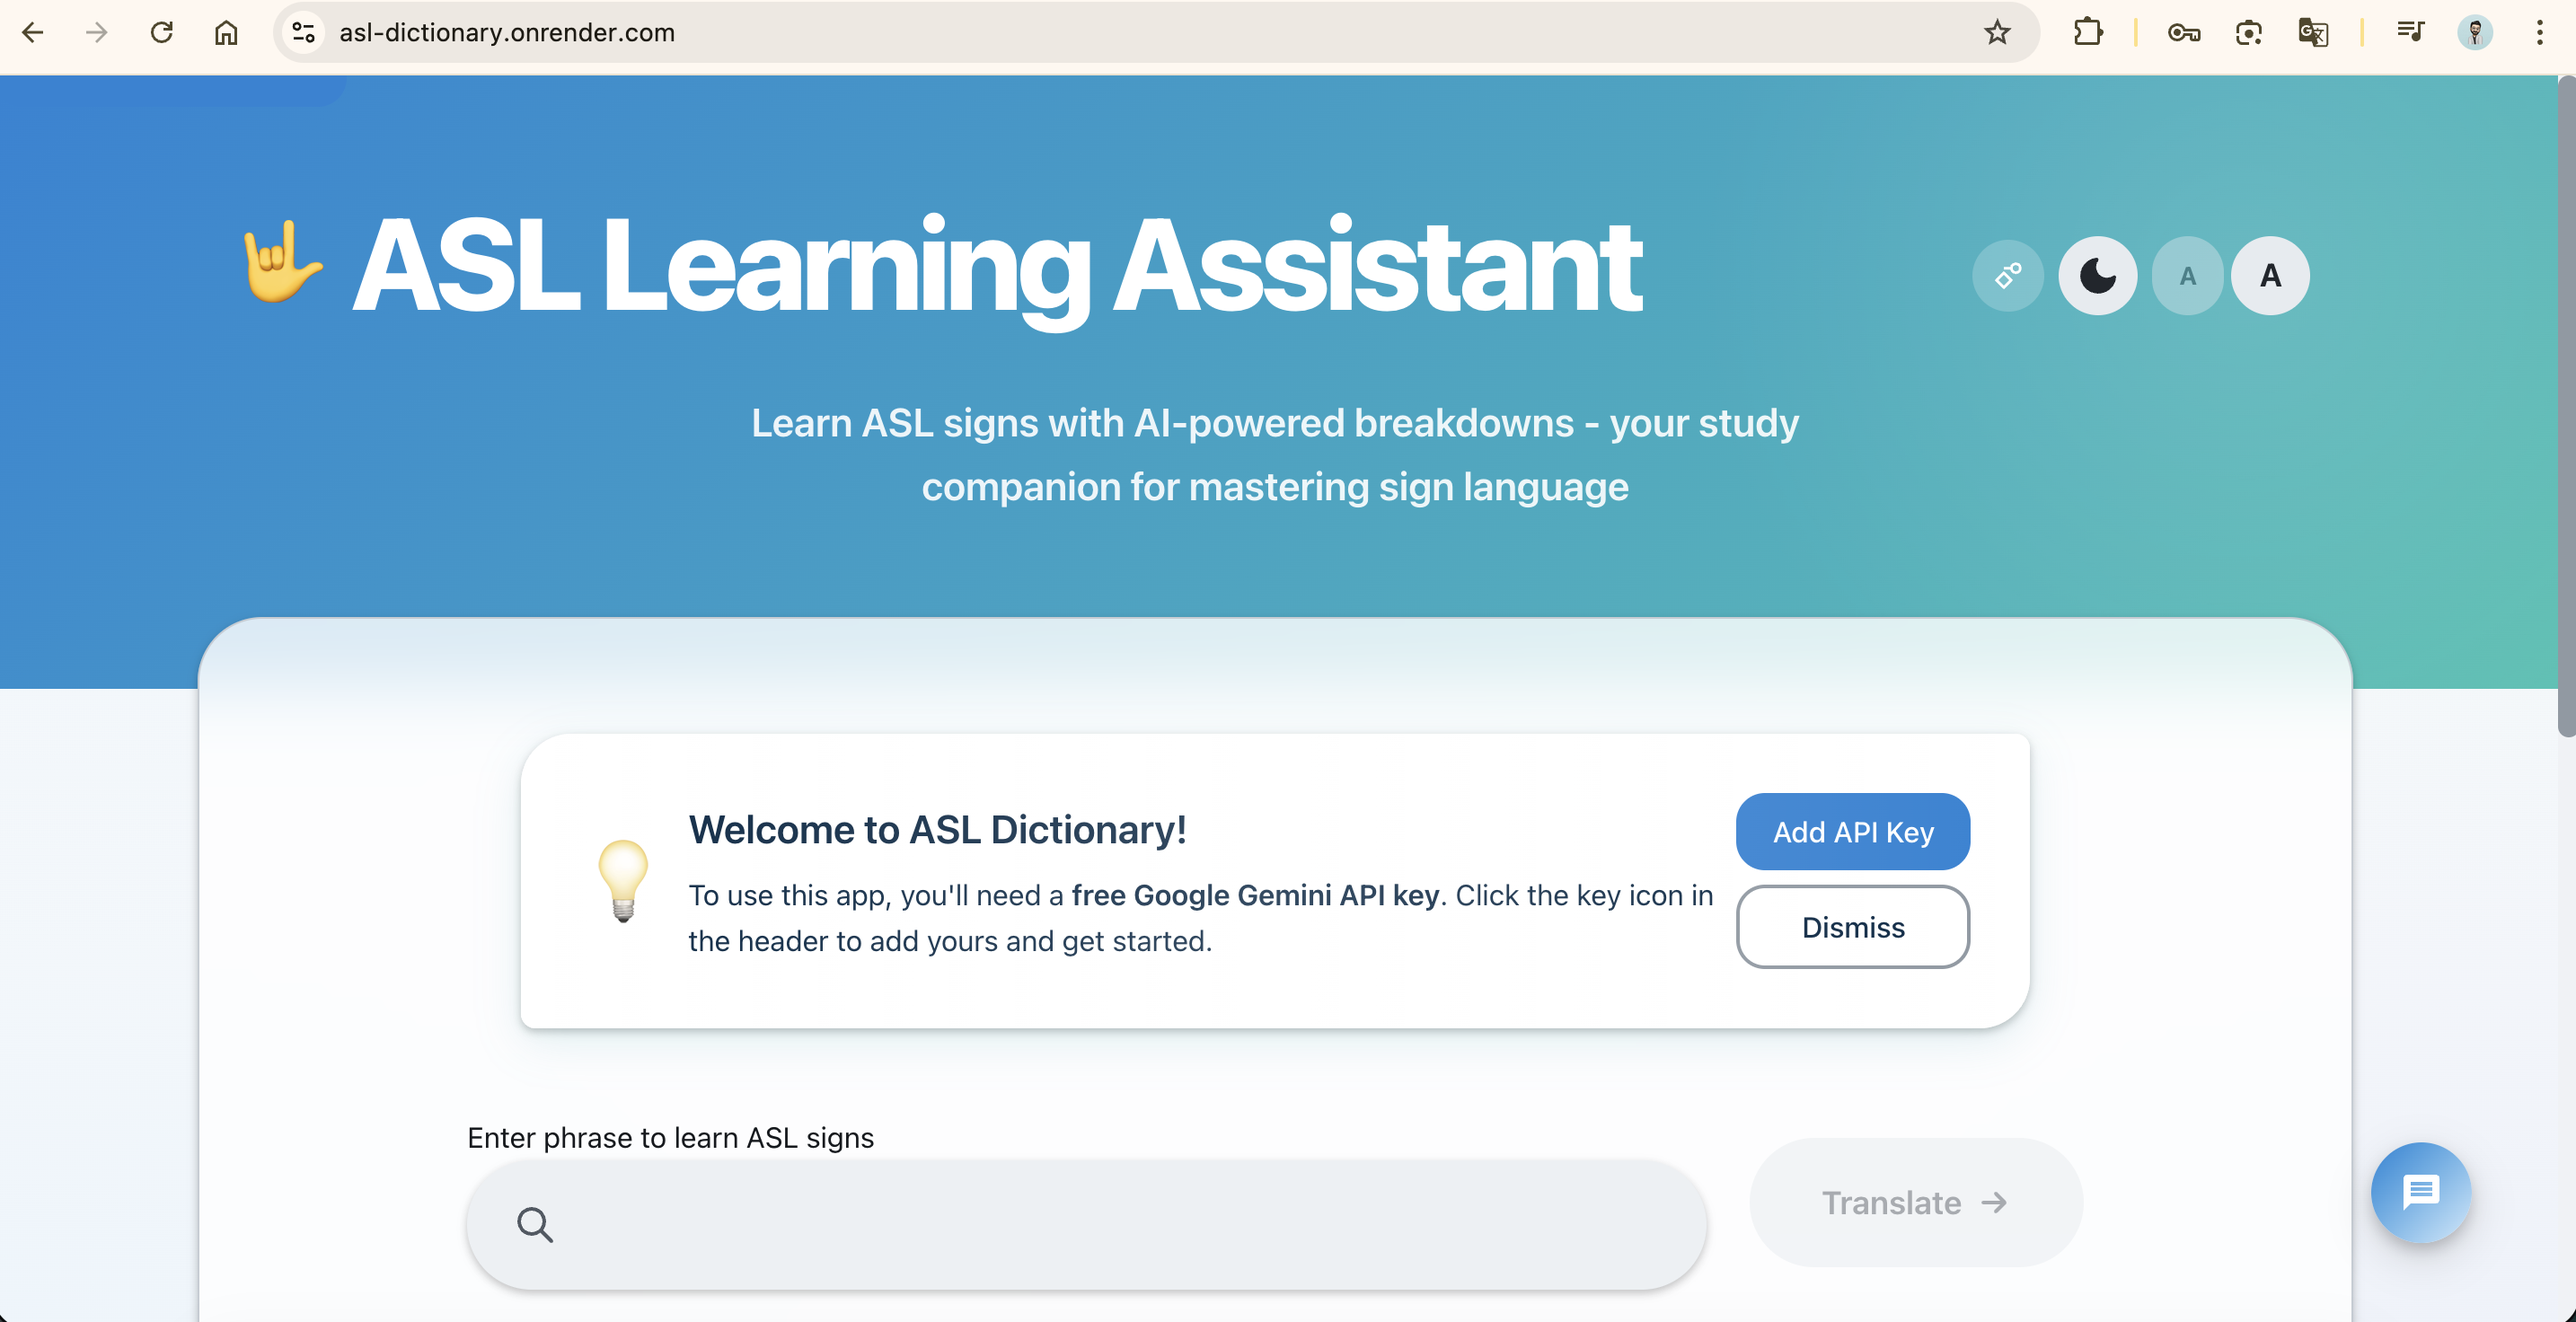
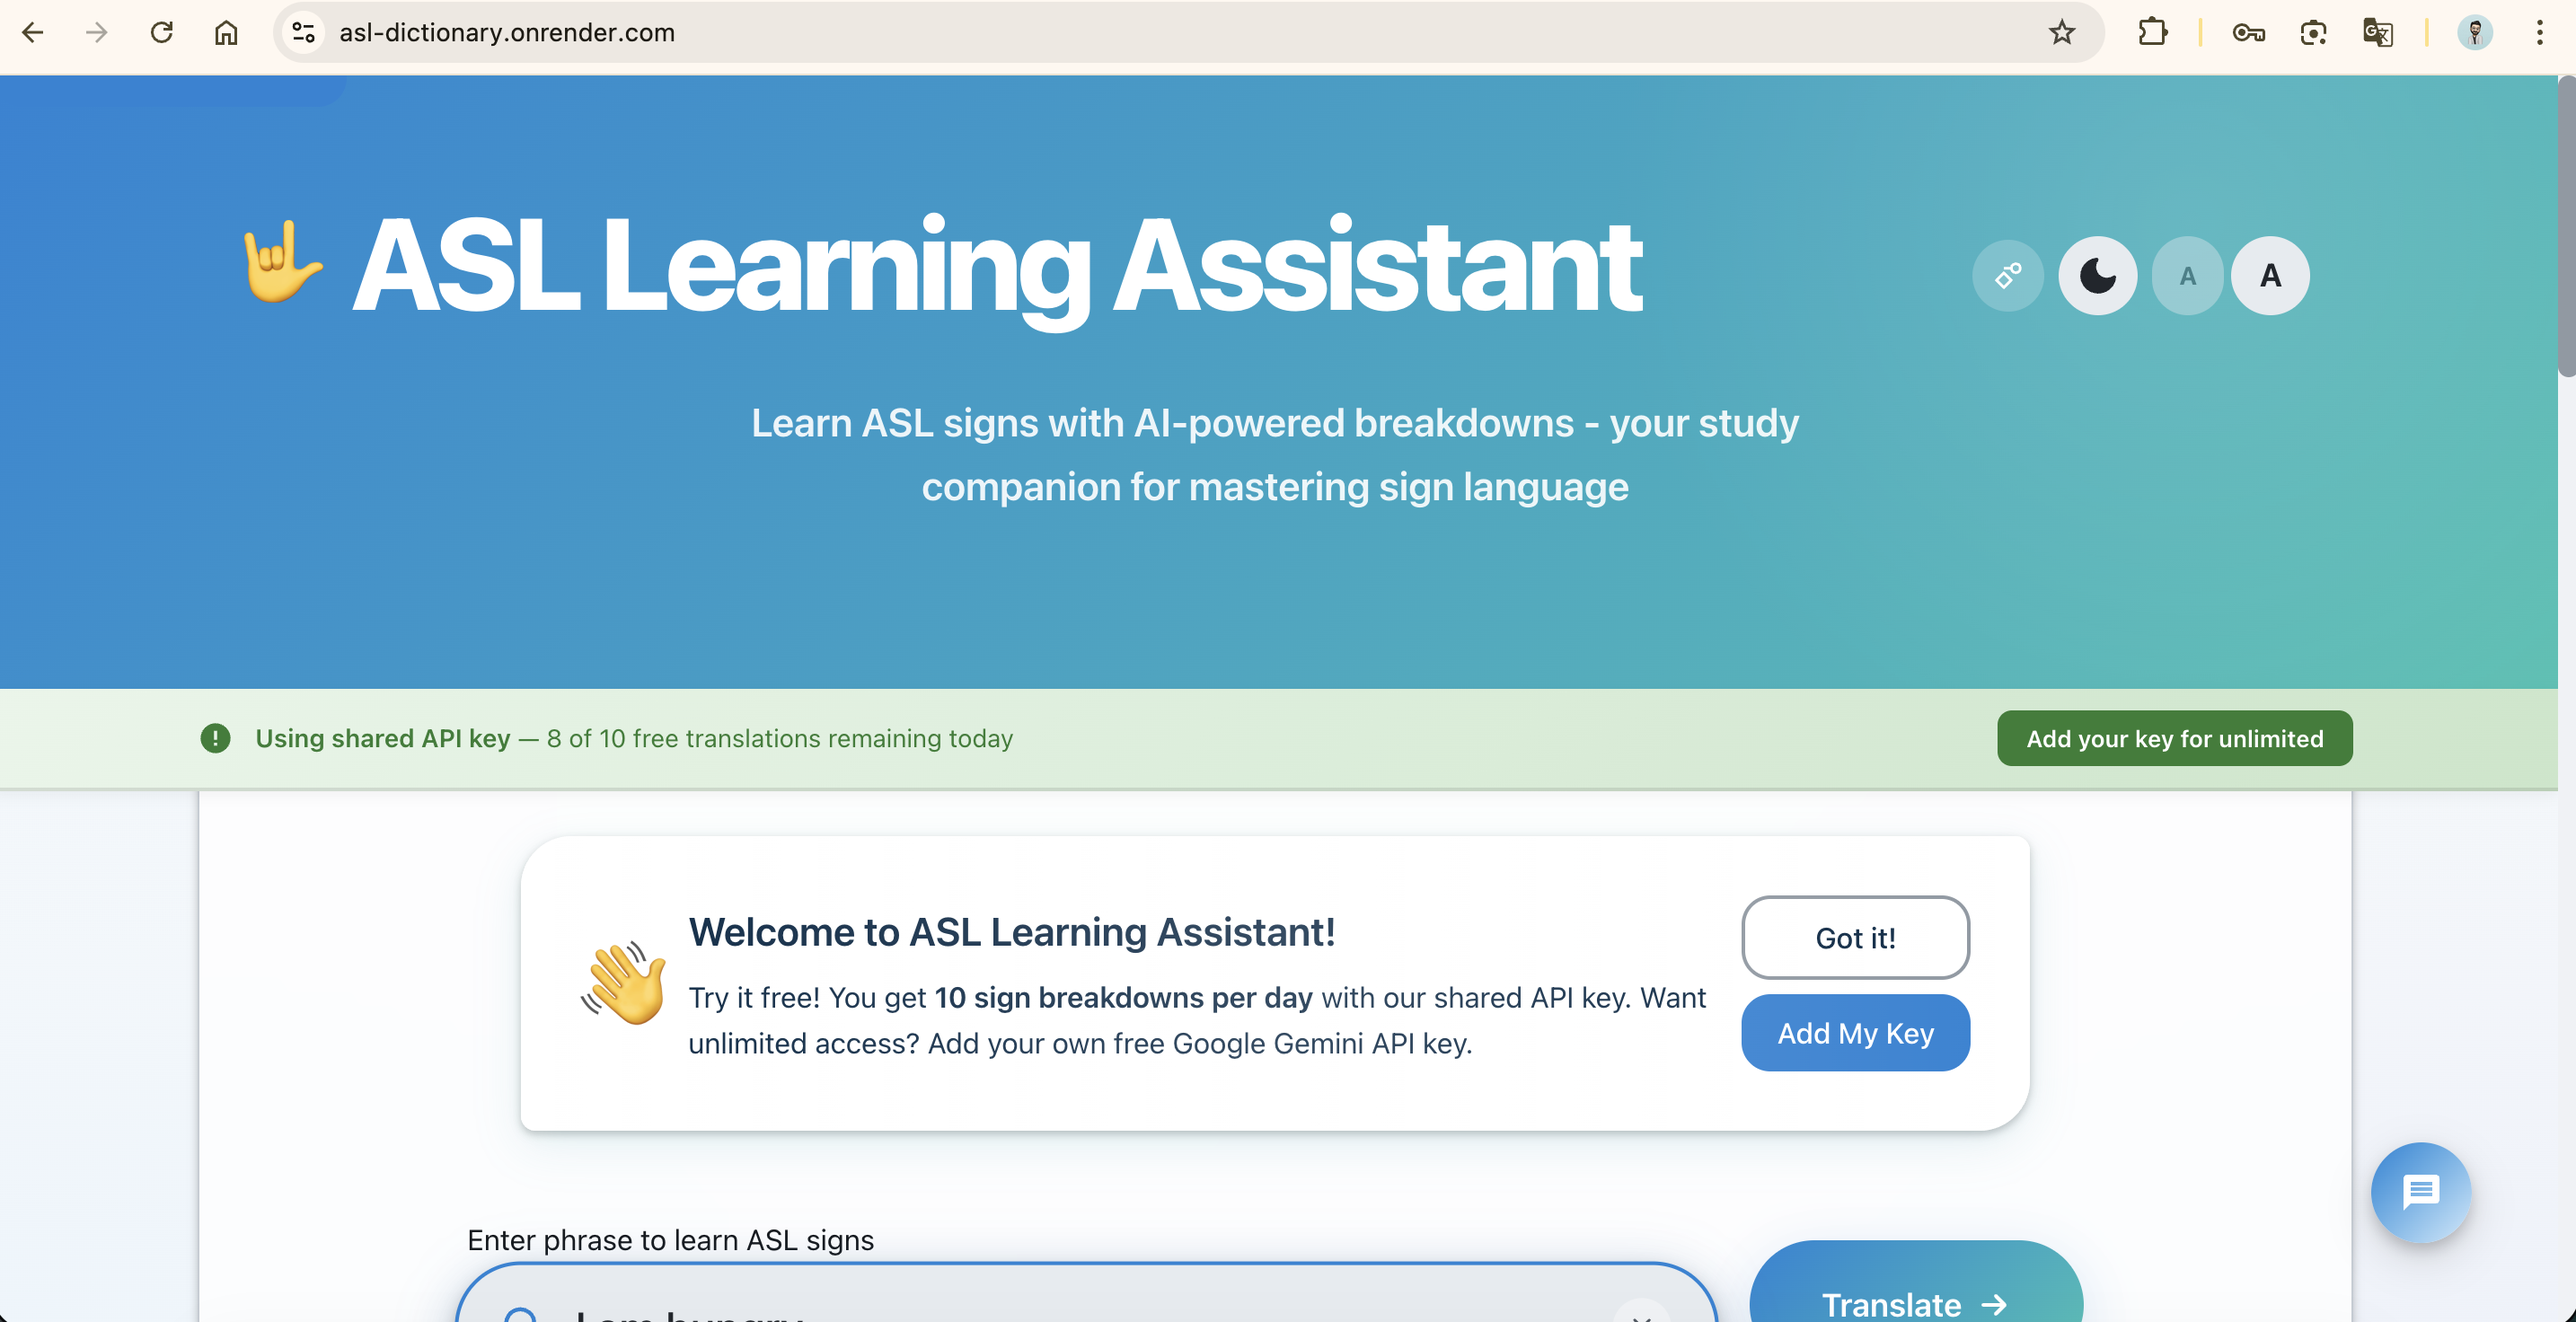
Add Material 3 Expressive enhancements (Phase 1)
Micro-interactions and delightful animations:
- Spring physics animations with custom easing functions
- Button morphing with ripple effects on click
- Gradient accents on header and primary buttons
- Playful card hover states with 3D tilt and icon bounce
- Staggered card entrance with spring bounce
- Enhanced search bar focus animation
- API key button gentle pulse when no key configured
- Shimmer effect on header gradient
- Video link gradient transitions
- All animations respect prefers-reduced-motion

UI Copy improvements:
- Rate limit banner: 'Get unlimited access' (was cut off)
- Search button: 'Learn Signs' (was 'Translate')

Technical details:
- New expressive.css with spring-based easings
- Enhanced existing hover states with spring physics
- Maintains accessibility (ARIA, keyboard, reduced motion)
- Dark mode compatible

Result: More shareworthy, delightful user experience while staying performant

diff --git a/src/styles/expressive.css b/src/styles/expressive.css
@@ -1,0 +1,353 @@
+/**
+ * Material 3 Expressive Enhancements
+ * Spring physics, playful interactions, and gradient accents
+ */
+
+/* ===== SPRING PHYSICS ANIMATIONS ===== */
+
+/* Spring easing functions */
+:root {
+    /* Expressive spring-based easings */
+    --spring-bounce: cubic-bezier(0.68, -0.55, 0.265, 1.55);
+    --spring-smooth: cubic-bezier(0.34, 1.56, 0.64, 1);
+    --spring-gentle: cubic-bezier(0.25, 0.46, 0.45, 0.94);
+    --spring-energetic: cubic-bezier(0.68, -0.6, 0.32, 1.6);
+
+    /* Durations for different interaction types */
+    --duration-instant: 150ms;
+    --duration-quick: 250ms;
+    --duration-smooth: 400ms;
+    --duration-slow: 600ms;
+}
+
+/* ===== ENHANCED BUTTON MORPHING ===== */
+
+.banner-button,
+.error-retry,
+.error-setup,
+button[type="submit"],
+.video-link {
+    position: relative;
+    overflow: hidden;
+    transition: all var(--duration-smooth) var(--spring-bounce);
+}
+
+.banner-button:hover,
+.error-retry:hover,
+.error-setup:hover,
+button[type="submit"]:hover,
+.video-link:hover {
+    transform: translateY(-2px) scale(1.02);
+    box-shadow:
+        0 8px 16px rgba(0, 0, 0, 0.1),
+        0 4px 8px rgba(0, 0, 0, 0.08),
+        inset 0 1px 0 rgba(255, 255, 255, 0.2);
+}
+
+.banner-button:active,
+.error-retry:active,
+.error-setup:active,
+button[type="submit"]:active,
+.video-link:active {
+    transform: translateY(0) scale(0.98);
+    transition: all var(--duration-instant) var(--spring-gentle);
+}
+
+/* Ripple effect on click */
+.banner-button::after,
+.error-retry::after,
+.error-setup::after,
+button[type="submit"]::after {
+    content: '';
+    position: absolute;
+    top: 50%;
+    left: 50%;
+    width: 0;
+    height: 0;
+    border-radius: 50%;
+    background: rgba(255, 255, 255, 0.5);
+    transform: translate(-50%, -50%);
+    transition: width var(--duration-smooth) var(--spring-smooth),
+                height var(--duration-smooth) var(--spring-smooth),
+                opacity var(--duration-smooth) ease-out;
+    opacity: 0;
+}
+
+.banner-button:active::after,
+.error-retry:active::after,
+.error-setup:active::after,
+button[type="submit"]:active::after {
+    width: 300px;
+    height: 300px;
+    opacity: 0;
+}
+
+/* ===== GRADIENT ACCENTS ===== */
+
+/* Enhanced header gradient with shimmer */
+.app-header {
+    background: linear-gradient(135deg,
+        var(--md-sys-color-primary) 0%,
+        var(--md-sys-color-primary-container) 50%,
+        var(--md-sys-color-tertiary) 100%);
+    position: relative;
+}
+
+.app-header::after {
+    content: '';
+    position: absolute;
+    top: 0;
+    left: -100%;
+    width: 100%;
+    height: 100%;
+    background: linear-gradient(90deg,
+        transparent 0%,
+        rgba(255, 255, 255, 0.1) 50%,
+        transparent 100%);
+    animation: shimmer 3s infinite;
+}
+
+@keyframes shimmer {
+    0% {
+        left: -100%;
+    }
+    100% {
+        left: 100%;
+    }
+}
+
+/* Gradient accent on primary buttons */
+.banner-button.primary,
+.search-submit {
+    background: linear-gradient(135deg,
+        var(--md-sys-color-primary) 0%,
+        var(--md-sys-color-tertiary) 100%);
+    background-size: 200% 100%;
+    transition: background-position var(--duration-smooth) var(--spring-smooth),
+                transform var(--duration-smooth) var(--spring-bounce),
+                box-shadow var(--duration-smooth) var(--spring-smooth);
+}
+
+.banner-button.primary:hover,
+.search-submit:hover {
+    background-position: 100% 0;
+}
+
+/* ===== PLAYFUL CARD HOVER STATES ===== */
+
+.sign-card {
+    transition: all var(--duration-smooth) var(--spring-bounce);
+    transform-style: preserve-3d;
+}
+
+.sign-card:hover {
+    transform: translateY(-8px) rotateX(2deg) rotateY(-2deg);
+    box-shadow:
+        0 20px 40px rgba(0, 0, 0, 0.12),
+        0 10px 20px rgba(0, 0, 0, 0.08),
+        0 0 0 1px rgba(0, 0, 0, 0.05);
+}
+
+.sign-card:hover .detail-icon {
+    transform: scale(1.15) rotate(5deg);
+    transition: transform var(--duration-quick) var(--spring-energetic);
+}
+
+.sign-card:hover .sign-word {
+    color: var(--md-sys-color-primary);
+    transition: color var(--duration-quick) ease-out;
+}
+
+/* Stagger entrance with bounce */
+@keyframes cardEnter {
+    0% {
+        opacity: 0;
+        transform: translateY(40px) scale(0.95);
+    }
+    60% {
+        transform: translateY(-8px) scale(1.02);
+    }
+    100% {
+        opacity: 1;
+        transform: translateY(0) scale(1);
+    }
+}
+
+.sign-card {
+    animation: cardEnter var(--duration-slow) var(--spring-bounce) backwards;
+}
+
+/* Stagger delays (already applied via inline style, but enhanced) */
+.sign-card:nth-child(1) { animation-delay: 0ms; }
+.sign-card:nth-child(2) { animation-delay: 100ms; }
+.sign-card:nth-child(3) { animation-delay: 200ms; }
+.sign-card:nth-child(4) { animation-delay: 300ms; }
+.sign-card:nth-child(5) { animation-delay: 400ms; }
+
+/* ===== MICRO-INTERACTIONS ===== */
+
+/* Search bar focus animation */
+.search-container.focused {
+    transform: scale(1.01);
+    transition: transform var(--duration-quick) var(--spring-smooth);
+}
+
+/* API key button pulse when no key */
+.api-key-button:not(:has(.api-key-indicator)) {
+    animation: gentlePulse 2s var(--spring-gentle) infinite;
+}
+
+@keyframes gentlePulse {
+    0%, 100% {
+        box-shadow: 0 0 0 0 rgba(255, 255, 255, 0.4);
+    }
+    50% {
+        box-shadow: 0 0 0 8px rgba(255, 255, 255, 0);
+    }
+}
+
+/* Loading state with spring bounce */
+.loading-spinner {
+    animation: spinBounce 1s var(--spring-smooth) infinite;
+}
+
+@keyframes spinBounce {
+    0% {
+        transform: rotate(0deg) scale(1);
+    }
+    50% {
+        transform: rotate(180deg) scale(1.1);
+    }
+    100% {
+        transform: rotate(360deg) scale(1);
+    }
+}
+
+/* Detail icons playful entrance */
+.detail-icon {
+    transition: transform var(--duration-smooth) var(--spring-bounce);
+}
+
+.sign-card:hover .detail-icon:nth-child(1) {
+    animation: iconBounce var(--duration-smooth) var(--spring-energetic);
+    animation-delay: 0ms;
+}
+
+@keyframes iconBounce {
+    0%, 100% {
+        transform: scale(1) rotate(0deg);
+    }
+    25% {
+        transform: scale(1.2) rotate(-5deg);
+    }
+    75% {
+        transform: scale(1.15) rotate(5deg);
+    }
+}
+
+/* Video link gradient on hover */
+.video-link {
+    background: linear-gradient(135deg,
+        var(--primary-container) 0%,
+        var(--secondary-container) 100%);
+    background-size: 200% 100%;
+    transition: all var(--duration-smooth) var(--spring-bounce);
+}
+
+.video-link:hover {
+    background-position: 100% 0;
+}
+
+/* Welcome banner entrance */
+.welcome-banner {
+    animation: bannerSlide var(--duration-slow) var(--spring-bounce);
+}
+
+@keyframes bannerSlide {
+    0% {
+        transform: translateY(-100%) scale(0.95);
+        opacity: 0;
+    }
+    100% {
+        transform: translateY(0) scale(1);
+        opacity: 1;
+    }
+}
+
+/* Rate limit banner slide down */
+.rate-limit-banner {
+    animation: slideDown var(--duration-smooth) var(--spring-smooth);
+}
+
+/* Learning disclaimer pop in */
+.learning-disclaimer {
+    animation: popIn var(--duration-smooth) var(--spring-energetic);
+}
+
+@keyframes popIn {
+    0% {
+        transform: scale(0.8);
+        opacity: 0;
+    }
+    60% {
+        transform: scale(1.05);
+    }
+    100% {
+        transform: scale(1);
+        opacity: 1;
+    }
+}
+
+/* Feedback widget bounce on hover */
+.feedback-widget {
+    transition: transform var(--duration-quick) var(--spring-bounce);
+}
+
+.feedback-widget:hover {
+    transform: translateY(-4px);
+}
+
+/* Action buttons group spring */
+.action-button {
+    transition: all var(--duration-smooth) var(--spring-bounce);
+}
+
+.action-button:hover {
+    transform: translateY(-3px) scale(1.05);
+}
+
+/* ===== ACCESSIBILITY ===== */
+
+/* Respect reduced motion preference */
+@media (prefers-reduced-motion: reduce) {
+    * {
+        animation-duration: 0.01ms !important;
+        animation-iteration-count: 1 !important;
+        transition-duration: 0.01ms !important;
+    }
+
+    .sign-card:hover {
+        transform: translateY(-4px);
+    }
+
+    .banner-button:hover,
+    .video-link:hover {
+        transform: none;
+    }
+}
+
+/* ===== DARK MODE ADJUSTMENTS ===== */
+
+[data-theme="dark"] .app-header::after {
+    background: linear-gradient(90deg,
+        transparent 0%,
+        rgba(255, 255, 255, 0.05) 50%,
+        transparent 100%);
+}
+
+[data-theme="dark"] .sign-card:hover {
+    box-shadow:
+        0 20px 40px rgba(0, 0, 0, 0.3),
+        0 10px 20px rgba(0, 0, 0, 0.2),
+        0 0 0 1px rgba(255, 255, 255, 0.1);
+}

diff --git a/src/components/SearchBar.tsx b/src/components/SearchBar.tsx
@@ -88,7 +88,7 @@ export const SearchBar: React.FC<SearchBarProps> = ({ onSearch, isLoading = fals
                 disabled={!query.trim() || isLoading}
                 aria-label="Search"
             >
-                <span>Translate</span>
+                <span>Learn Signs</span>
                 <svg width="20" height="20" viewBox="0 0 20 20" fill="none" aria-hidden="true">
                     <path d="M4 10H16M16 10L11 5M16 10L11 15" stroke="currentColor" strokeWidth="2" strokeLinecap="round" strokeLinejoin="round" />
                 </svg>

diff --git a/src/App.css b/src/App.css
@@ -78,13 +78,14 @@
   background: rgba(255, 255, 255, 0.2);
   color: var(--md-sys-color-on-primary);
   border-radius: var(--md-sys-shape-corner-pill);
-  transition: all var(--md-sys-motion-duration-short-3) var(--md-sys-motion-easing-standard);
+  transition: all 400ms cubic-bezier(0.34, 1.56, 0.64, 1);
   cursor: pointer;
 }
 
 .api-key-button:hover {
   background: rgba(255, 255, 255, 0.3);
-  transform: scale(1.05);
+  transform: translateY(-2px) scale(1.08);
+  box-shadow: 0 8px 16px rgba(0, 0, 0, 0.2);
 }
 
 .api-key-indicator {

diff --git a/src/components/features/RateLimitBanner.tsx b/src/components/features/RateLimitBanner.tsx
@@ -82,7 +82,7 @@ export function RateLimitBanner({ customApiKey }: RateLimitBannerProps) {
                     }}
                     aria-label="Add your own API key for unlimited access"
                 >
-                    Add your key for unlimited
+                    Get unlimited access
                 </button>
             </div>
         </div>

diff --git a/src/main.tsx b/src/main.tsx
@@ -7,6 +7,7 @@ import './styles/tokens.css';
 import './styles/global.css';
 import './styles/themes.css';
 import './styles/print.css';
+import './styles/expressive.css';
 
 ReactDOM.createRoot(document.getElementById('root')!).render(
   <React.StrictMode>
